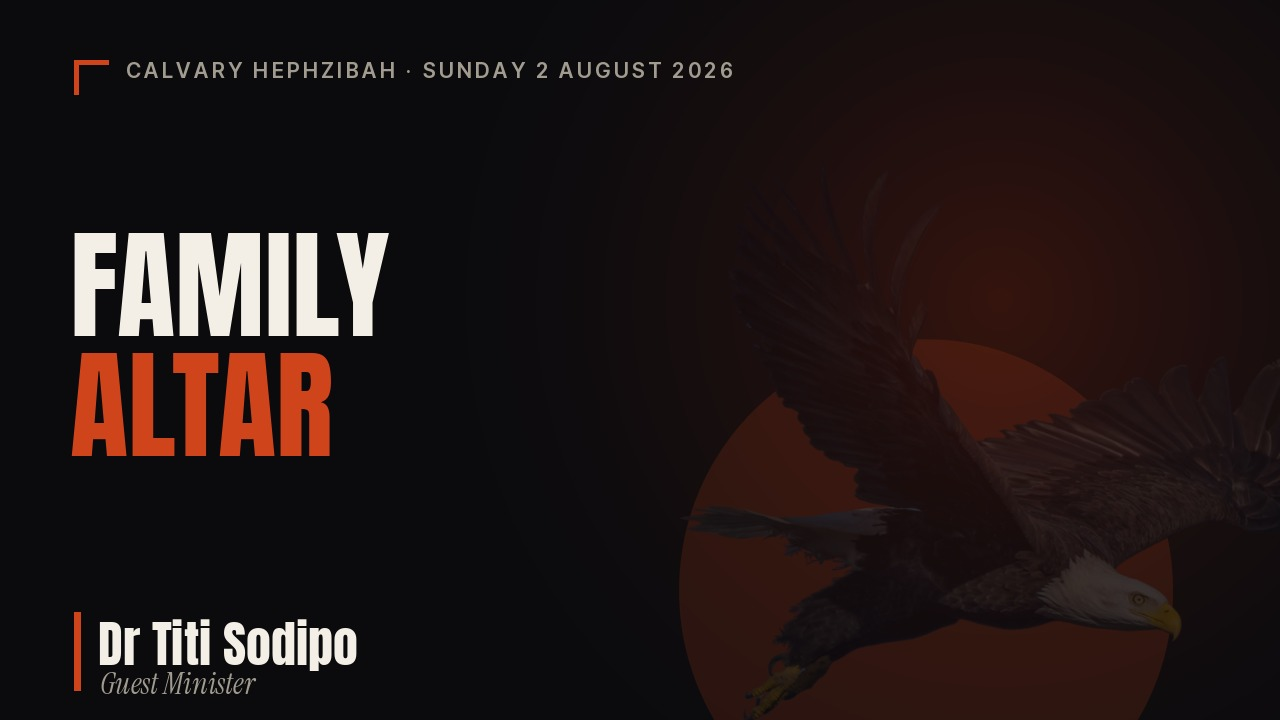
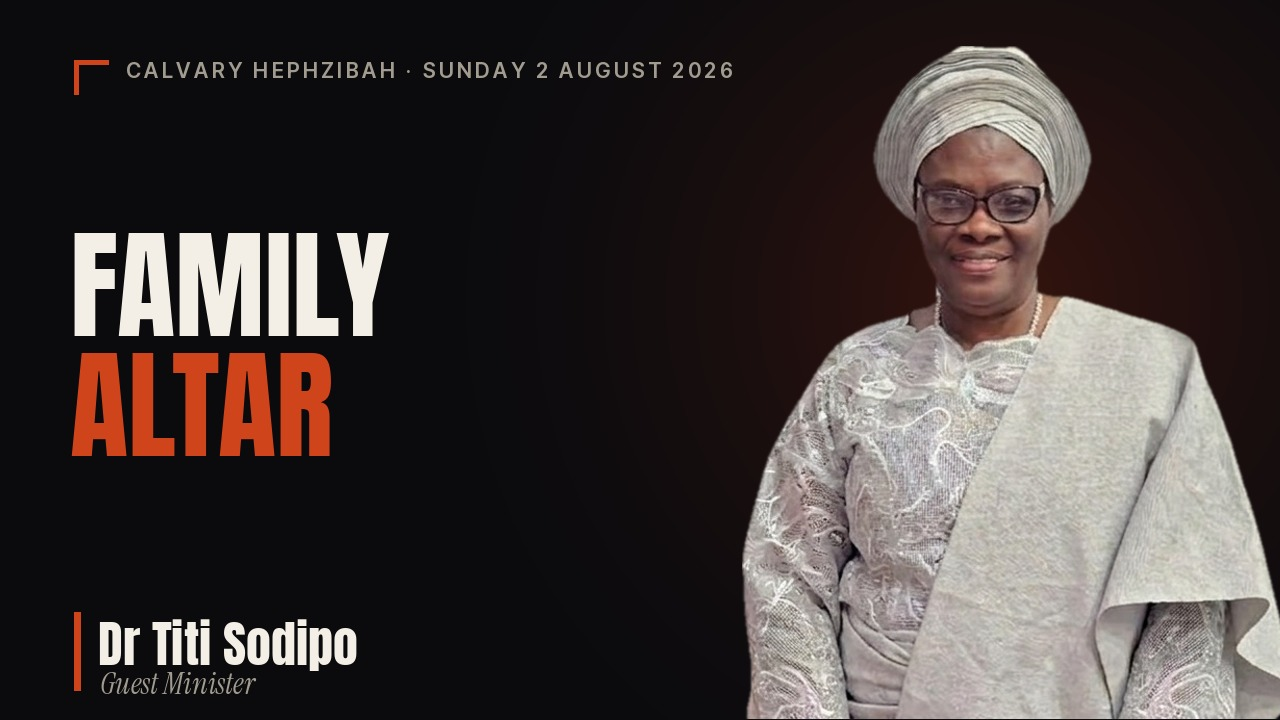
02 Aug 2026: Sermon thumbnail with Dr Titi Sodipo portrait + preacher library record

Changed region(s): [[0.5312, 0.0611, 1.0, 1.0]]

diff --git a/media-briefing-02-aug-2026.html b/media-briefing-02-aug-2026.html
@@ -6,11 +6,11 @@
     <title>Calvary Service Run Sheet – 2nd August 2026</title>
     <meta property="og:title" content="Calvary Service Run Sheet – 2nd August 2026">
     <meta property="og:description" content="Sunday 2nd August 2026 | Family Altar | Dr Titi Sodipo · Guest Minister | Calvary Hephzibah">
-    <meta property="og:image" content="https://calvaryhfgc.github.io/calvaryhephzibah/sermon-thumbnail-02-aug-2026.jpg?v=1">
+    <meta property="og:image" content="https://calvaryhfgc.github.io/calvaryhephzibah/sermon-thumbnail-02-aug-2026.jpg?v=2">
     <meta property="og:image:width" content="1280">
     <meta property="og:image:height" content="720">
     <meta name="twitter:card" content="summary_large_image">
-    <meta name="twitter:image" content="https://calvaryhfgc.github.io/calvaryhephzibah/sermon-thumbnail-02-aug-2026.jpg?v=1">
+    <meta name="twitter:image" content="https://calvaryhfgc.github.io/calvaryhephzibah/sermon-thumbnail-02-aug-2026.jpg?v=2">
     <link rel="preconnect" href="https://fonts.googleapis.com">
     <link rel="preconnect" href="https://fonts.gstatic.com" crossorigin>
     <link href="https://fonts.googleapis.com/css2?family=Cormorant+Garamond:wght@600;700&family=DM+Sans:wght@400;500;600;700&display=swap" rel="stylesheet">
@@ -243,7 +243,7 @@
             <div class="serm-preacher">Dr Titi Sodipo · Guest Minister</div>
             <h3 class="serm-title">Family Altar</h3>
             <div style="font-size:13px;color:rgba(255,255,255,0.6);margin-bottom:14px;">Passage TBC</div>
-            <img src="https://calvaryhfgc.github.io/calvaryhephzibah/sermon-thumbnail-02-aug-2026.jpg?v=1" alt="Dr Titi Sodipo — Family Altar" class="serm-thumb">
+            <img src="https://calvaryhfgc.github.io/calvaryhephzibah/sermon-thumbnail-02-aug-2026.jpg?v=2" alt="Dr Titi Sodipo — Family Altar" class="serm-thumb">
             <div class="serm-note"><span>💡</span><span>Display sermon thumbnail for 30 seconds as Dr Titi Sodipo comes up to preach.</span></div>
         </div>
     </div>
